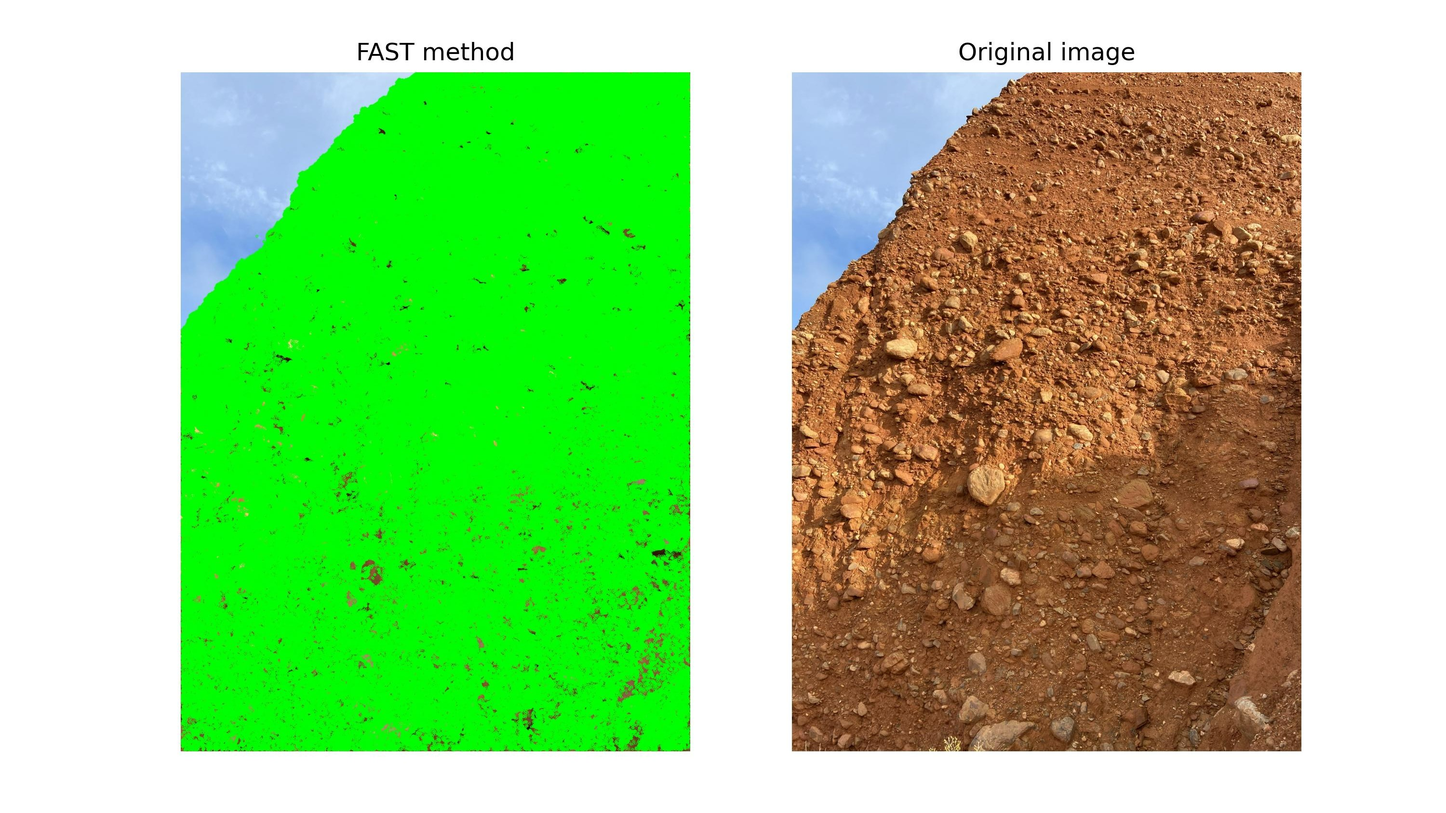
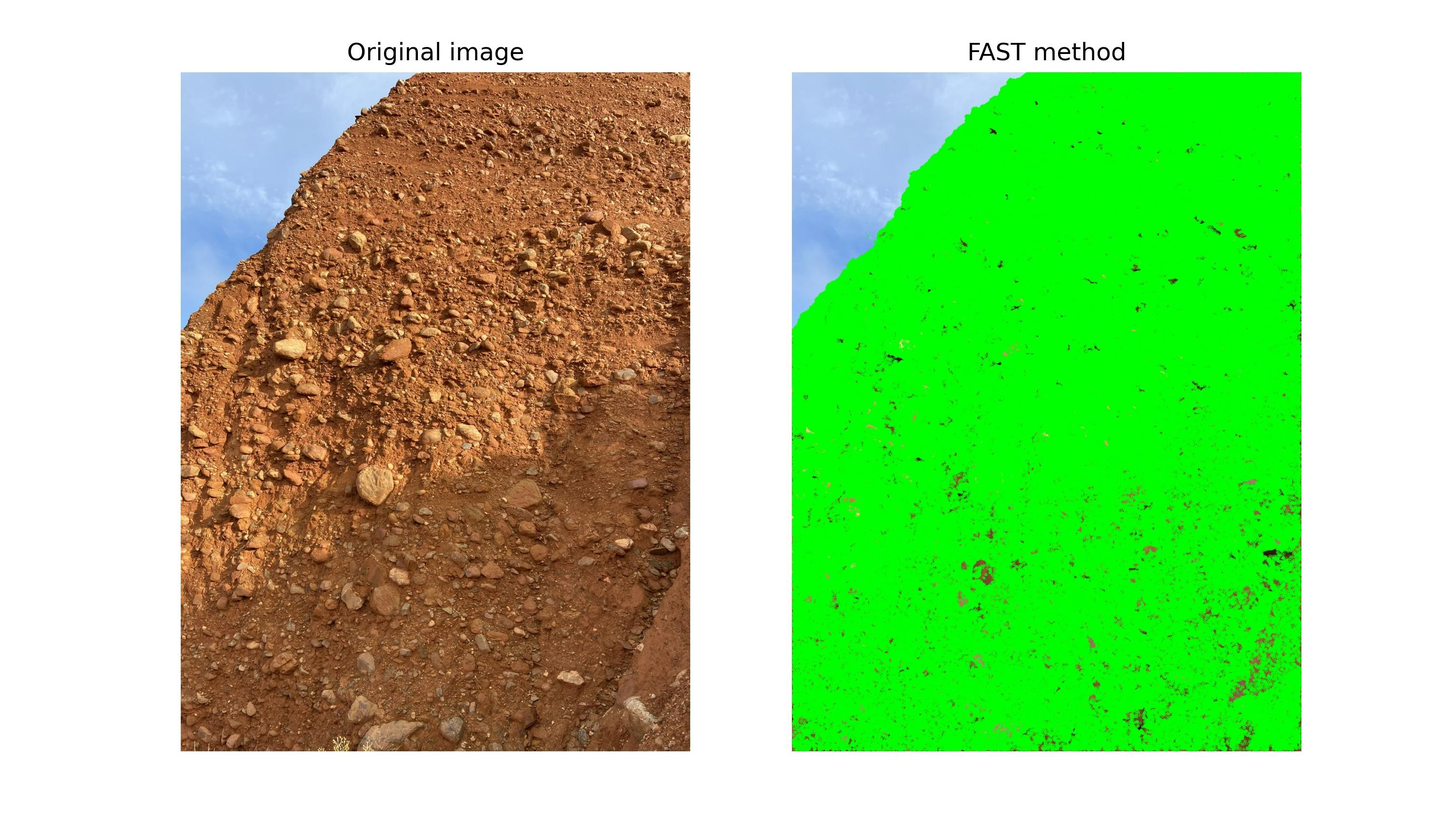
fixed some errors

diff --git a/PlotResults.py b/PlotResults.py
@@ -7,31 +7,31 @@ columns = 2
 
 
 """ FAST METHOD RESULT """
-FastMethod = cv.imread('results/Methods/FAST Method/FAST_method.jpg')
-FastMethod = cv.cvtColor(FastMethod, cv.COLOR_BGR2RGB)
-ImgOrigFAST = cv.imread('results/Methods/FAST Method/IMG_6747.jpeg')
-ImgOrigFAST = cv.cvtColor(ImgOrigFAST, cv.COLOR_BGR2RGB)
+# FastMethod = cv.imread('results/Methods/FAST Method/FAST_method.jpg')
+# FastMethod = cv.cvtColor(FastMethod, cv.COLOR_BGR2RGB)
+# ImgOrigFAST = cv.imread('results/Methods/FAST Method/IMG_6747.jpeg')
+# ImgOrigFAST = cv.cvtColor(ImgOrigFAST, cv.COLOR_BGR2RGB)
 
-#Create the figure
-figFast = plt.figure(figsize=figsize)
+# #Create the figure
+# figFast = plt.figure(figsize=figsize)
 
-#Add firts image
-figFast.add_subplot(rows, columns, 1)
+# #Add firts image
+# figFast.add_subplot(rows, columns, 2)
 
-plt.imshow(FastMethod)
-plt.axis('off')
-plt.title('FAST method')
+# plt.imshow(FastMethod)
+# plt.axis('off')
+# plt.title('FAST method')
 
-#Add second image
-figFast.add_subplot(rows, columns, 2)
+# #Add second image
+# figFast.add_subplot(rows, columns, 1)
 
-plt.imshow(ImgOrigFAST)
-plt.axis('off')
-plt.title('Original image')
+# plt.imshow(ImgOrigFAST)
+# plt.axis('off')
+# plt.title('Original image')
 
-#Save the figure
-plt.savefig('results/Methods/FAST Method/FAST mehtod figure.jpg', dpi=300)
-plt.show()
+# #Save the figure
+# plt.savefig('results/Methods/FAST Method/FAST mehtod figure.jpg', dpi=300)
+# plt.show()
 
 
 """ HARRIS CORNER DETECTOR RESULTS """
@@ -44,14 +44,14 @@ plt.show()
 # figHarris = plt.figure(figsize=figsize)
 
 # #Add first image
-# figHarris.add_subplot(rows, columns, 1)
+# figHarris.add_subplot(rows, columns, 2)
 
 # plt.imshow(HarrisMethod)
 # plt.axis('off')
 # plt.title('Harris corner detector method')
 
 # #Add second image
-# figHarris.add_subplot(rows, columns, 2)
+# figHarris.add_subplot(rows, columns, 1)
 
 # plt.imshow(ImgOrigHarris)
 # plt.axis('off')
@@ -72,14 +72,14 @@ plt.show()
 # figORB = plt.figure(figsize=figsize)
 
 # #Add first image
-# figORB.add_subplot(rows, columns, 1)
+# figORB.add_subplot(rows, columns, 2)
 
 # plt.imshow(ORBMethod)
 # plt.axis('off')
 # plt.title('ORB method')
 
 # #Add second image
-# figORB.add_subplot(rows, columns, 2)
+# figORB.add_subplot(rows, columns, 1)
 
 # plt.imshow(ImgOrigORB)
 # plt.axis('off')
@@ -92,86 +92,89 @@ plt.show()
 
 
 """ SOBEL, CANNY AND LAPLACIAN PLUS CONTOUR DETECTION """
-# ImgOri = cv.imread('results/Methods/Sobel_Canny_Laplacian_contour detection/IMG_6701.jpeg')
-# ImgOri = cv.cvtColor(ImgOri, cv.COLOR_BGR2RGB)
+ImgOri = cv.imread('results/Methods/Sobel_Canny_Laplacian_contour detection/IMG_6701.jpeg')
+ImgOri = cv.cvtColor(ImgOri, cv.COLOR_BGR2RGB)
 
-# Sobel = cv.imread('results/Methods/Sobel_Canny_Laplacian_contour detection/Sobel.jpg')
-# SobelContour = cv.imread('results/Methods/Sobel_Canny_Laplacian_contour detection/Sobel contours.jpg')
-# SobelContour = cv.cvtColor(SobelContour, cv.COLOR_BGR2RGB)
+Sobel = cv.imread('results/Methods/Sobel_Canny_Laplacian_contour detection/Sobel.jpg')
+SobelContour = cv.imread('results/Methods/Sobel_Canny_Laplacian_contour detection/Sobel contours.jpg')
+SobelContour = cv.cvtColor(SobelContour, cv.COLOR_BGR2RGB)
 
-# Canny = cv.imread('results/Methods/Sobel_Canny_Laplacian_contour detection/Canny.jpg')
-# CannyContour = cv.imread('results/Methods/Sobel_Canny_Laplacian_contour detection/Canny contours.jpg')
-# CannyContour = cv.cvtColor(CannyContour, cv.COLOR_BGR2RGB)
+Canny = cv.imread('results/Methods/Sobel_Canny_Laplacian_contour detection/Canny.jpg')
+CannyContour = cv.imread('results/Methods/Sobel_Canny_Laplacian_contour detection/Canny contours.jpg')
+CannyContour = cv.cvtColor(CannyContour, cv.COLOR_BGR2RGB)
 
-# Laplacian = cv.imread('results/Methods/Sobel_Canny_Laplacian_contour detection/Laplacian.jpg')
-# LaplacianContour = cv.imread('results/Methods/Sobel_Canny_Laplacian_contour detection/Laplacian contours.jpg')
-# LaplacianContour = cv.cvtColor(LaplacianContour, cv.COLOR_BGR2RGB)
+Laplacian = cv.imread('results/Methods/Sobel_Canny_Laplacian_contour detection/Laplacian.jpg')
+LaplacianContour = cv.imread('results/Methods/Sobel_Canny_Laplacian_contour detection/Laplacian contours.jpg')
+LaplacianContour = cv.cvtColor(LaplacianContour, cv.COLOR_BGR2RGB)
 
 
-# #Create the figure
-# fig = plt.figure(figsize=(10, 10))
+#Create the figure
+fig = plt.figure(figsize=(10, 10))
 
-# #Add first image
-# fig.add_subplot(3, 3, 1)
+#Add first image
+fig.add_subplot(3, 3, 1)
 
-# plt.imshow(ImgOri)
-# plt.axis('off')
-# plt.title('Original image')
+plt.imshow(ImgOri)
+plt.axis('off')
+plt.title('Original image')
 
-# #Add second image
-# fig.add_subplot(3, 3, 2)
+#Add second image
+fig.add_subplot(3, 3, 2)
 
-# plt.imshow(Sobel)
-# plt.axis('off')
-# plt.title('Sobel')
+plt.imshow(Sobel)
+plt.axis('off')
+plt.title('Sobel')
 
-# #Add third image
-# fig.add_subplot(3, 3, 3)
+#Add third image
+fig.add_subplot(3, 3, 3)
 
-# plt.imshow(SobelContour)
-# plt.axis('off')
-# plt.title('Sobel + contour detector')
+plt.imshow(SobelContour)
+plt.axis('off')
+plt.title('Sobel + contour detector')
 
-# #Add fourth image
-# fig.add_subplot(3, 3, 4)
+#Add fourth image
+fig.add_subplot(3, 3, 4)
 
-# plt.imshow(ImgOri)
-# plt.axis('off')
-# plt.title('Original image')
+plt.imshow(ImgOri)
+plt.axis('off')
+plt.title('Original image')
 
-# #Add fifth image
-# fig.add_subplot(3, 3, 5)
+#Add fifth image
+fig.add_subplot(3, 3, 5)
 
-# plt.imshow(Canny)
-# plt.axis('off')
-# plt.title('Canny')
+plt.imshow(Canny)
+plt.axis('off')
+plt.title('Canny')
 
-# #Add sixth image
-# fig.add_subplot(3, 3, 6)
+#Add sixth image
+fig.add_subplot(3, 3, 6)
 
-# plt.imshow(CannyContour)
-# plt.axis('off')
-# plt.title('Canny + contour detector')
+plt.imshow(CannyContour)
+plt.axis('off')
+plt.title('Canny + contour detector')
 
-# #Add seventh image
-# fig.add_subplot(3, 3, 7)
+#Add seventh image
+fig.add_subplot(3, 3, 7)
 
-# plt.imshow(ImgOri)
-# plt.axis('off')
-# plt.title('Original image')
+plt.imshow(ImgOri)
+plt.axis('off')
+plt.title('Original image')
 
-# #Add eighth image
-# fig.add_subplot(3, 3, 8)
+#Add eighth image
+fig.add_subplot(3, 3, 8)
 
-# plt.imshow(Laplacian)
-# plt.axis('off')
-# plt.title('Laplacian')
+plt.imshow(Laplacian)
+plt.axis('off')
+plt.title('Laplacian')
 
-# #Add ninth image
-# fig.add_subplot(3, 3, 9)
+#Add ninth image
+fig.add_subplot(3, 3, 9)
 
-# plt.imshow(LaplacianContour)
-# plt.axis('off')
-# plt.title('Laplacian + contour detector')
+plt.imshow(LaplacianContour)
+plt.axis('off')
+plt.title('Laplacian + contour detector')
 
-# plt.show()
+
+plt.savefig('results/Methods/Sobel_Canny_Laplacian_contour detection/Figure.jpg', dpi=300)
+plt.show()
+
